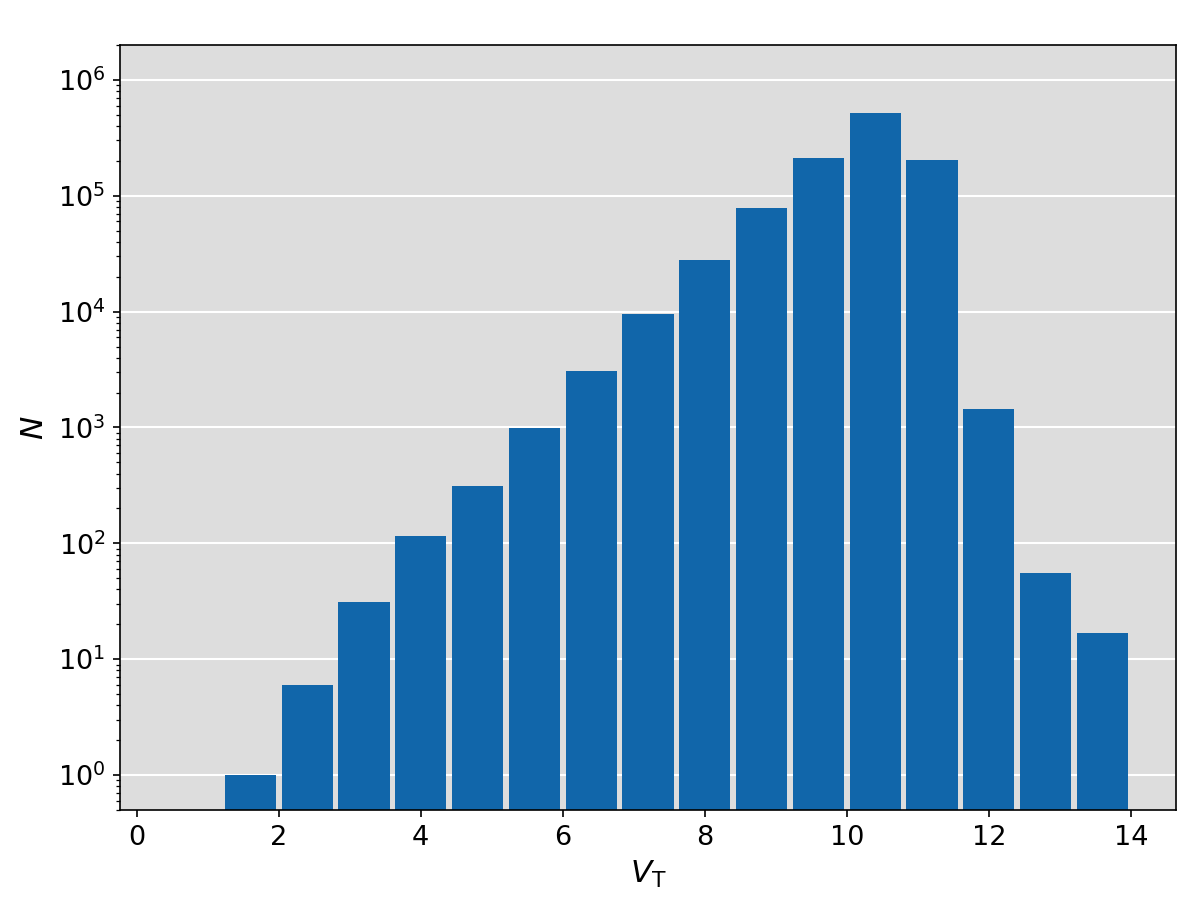
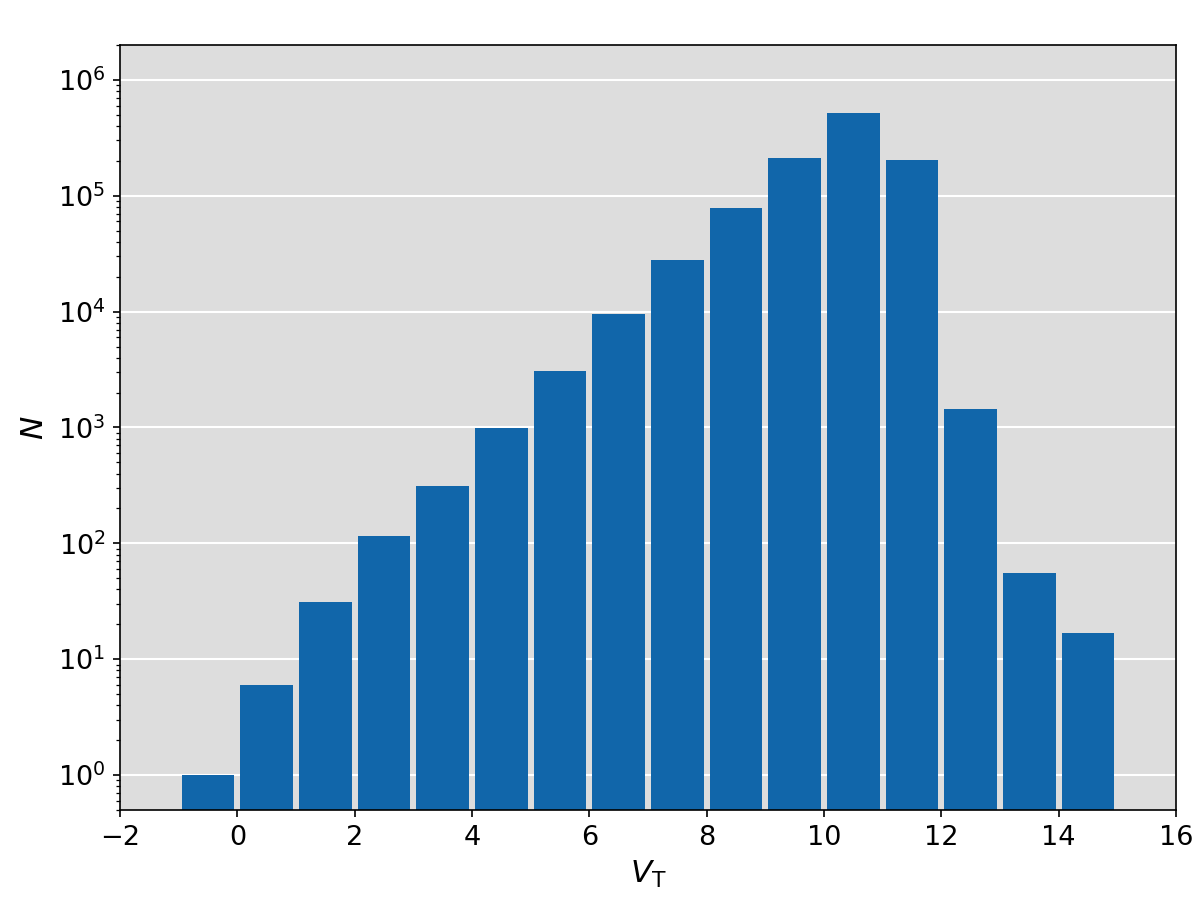
correct bugs in magnitude histogram of HIP and TYC

Changed region(s): [[0.1542, 0.1244, 0.8325, 0.9333], [0.8325, 0.4356, 1.0, 0.9333], [0.0925, 0.9022, 0.1233, 0.9333]]

diff --git a/docs/source/examples/catalog_TYC/plot.py b/docs/source/examples/catalog_TYC/plot.py
@@ -8,7 +8,6 @@ from stella.parameter.teff import _BV_to_Teff_Flower1996
 from stella.parameter.bc import _Teff_to_BC_Flower1996
 from stella.catalog.utils import plot_skymap
 
-
 def plot_histogram(vtmag, figfile):
     # plot magnitude histogram
     bins = np.arange(-2,16)
@@ -26,7 +25,8 @@ def plot_histogram(vtmag, figfile):
         tick.label1.set_fontsize(13)
     ax.set_xlabel('$V_\mathrm{T}$', fontsize=15)
     ax.set_ylabel('$N$', fontsize=15)
-    ax.set_xticklabels(np.arange(-2, 16, 2))
+    ax.set_xticks(np.arange(-2, 16+1e-3, 2))
+    ax.set_xlim(-2, 16)
     ax.set_ylim(0.5, 2e6)
     # save the figure
     fig.savefig(figfile)

diff --git a/docs/source/examples/catalog_HIP/plot.py b/docs/source/examples/catalog_HIP/plot.py
@@ -41,7 +41,8 @@ def main():
         tick.label1.set_fontsize(13)
     ax.set_xlabel('$V$', fontsize=15)
     ax.set_ylabel('$N$', fontsize=15)
-    ax.set_xticklabels(np.arange(-2, 16, 2))
+    ax.set_xticks(np.arange(-2, 16+1e-3, 2))
+    ax.set_xlim(-3, 16)
     # save the figure
     fig.savefig('maghist_hip.png')
     plt.close(fig)
